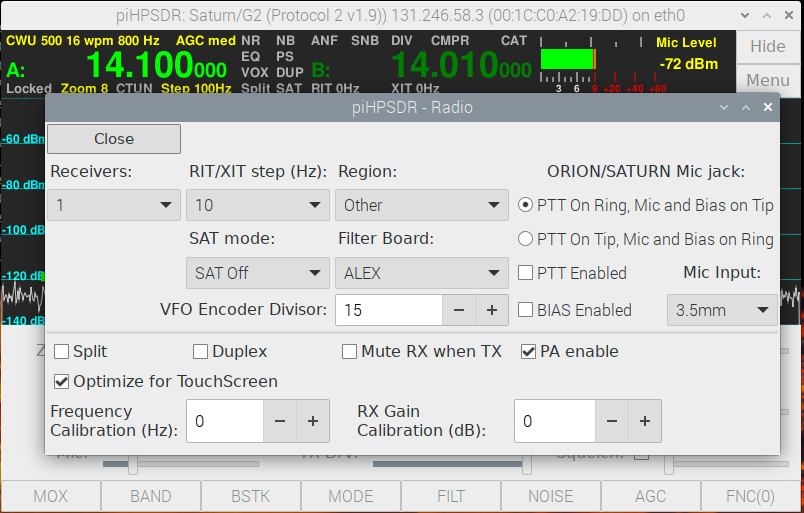
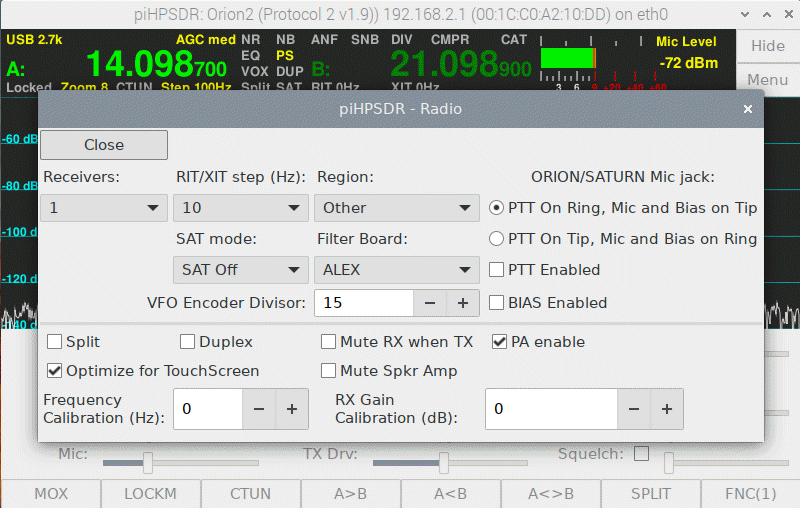
Manual: modified Radio (Mute Spkr Amp) and RX (bypass filter) menus

Changed region(s): [[0.0, 0.0, 1.0, 1.0], [0.0, 0.1181, 0.0312, 0.1476]]

diff --git a/release/LatexManual/piHPSDR-Manual.tex b/release/LatexManual/piHPSDR-Manual.tex
@@ -1059,6 +1059,11 @@ when using a mouse, it is a great helper when using a touch screen. Therefore th
 option is set by default, but you can uncheck it here if you prefer normal
 mouse operation. Note that this option becomes effective when the next menu is opened.
 
+\rett{Mute Spkr Amp} This box only appears on Anan-7000/8000 and G2 radios using protocol 2.
+If checked, the audio amplifier driving the speakers (either the speaker jacks in the
+back panel, or the built-in speakers) is disabled. This does not affect the audio signal
+at the headphone jack.
+
 \rett{Frequency Calibration} Here you can set a frequency offset (in Hz). This offset
 will be added to all frequencies sent to the radio. This means that if you discover that
 a reference signal occurs in your RX panel at 10001 kHz where it should occur at 10000
@@ -1702,13 +1707,31 @@ for some legacy HPSDR boards which had a switch-able RX preamp.
 \rett{Mute when not active}. If checked, the audio from this receiver is muted when
 it is not the active receiver.
 
-\rett{Mute audio}. If checked, the audio from this receiver is muted, no matter whether
+\rett{Mute Audio to Radio}. If checked, the audio from this receiver is muted, no matter whether
 it is active or not.
+
+\rett{Bypass ADC0 RX filters}. This box is only shown if the ALEX filter board
+is selected (see the \bltt{Radio} menu). If checked, the filters in the RF frontend for ADC0
+are by-passed during receive. This option will normally only used for radios that
+have band-pass filters in the front end, if one operates two receivers both running
+on ADC0 data on different bands. Without checking this option, only the signals for
+the band of the active receiver will pass. Older radios (up to ANAN-100/200)  have a
+combination of a low-pass and a high-pass filter in the RX path to ADC0. If these
+radios run two receivers, the low-pass filter is selected based on the higher
+of the two RX frequencies, and the high-pass filters is selected based on the
+lower one. This ensures that the signals for both receivers fall into  the filter
+pass band.
+
+\rett{Bypass ADC1 RX filters}. This box is only shown if the RF frontend for ADC1
+features a filter board (ANAN-7000/8000 and G2 radios),
+and if the ALEX filter board
+is selected (see the \bltt{Radio} menu). If checked, the filters in the RF frontend for ADC1
+are by-passed during receive.
 
 \rett{Local Audio Output:} If checked, the audio from this radio is sent to a local
 sound card (or virtual audio cable). The sound card itself is selected in the
-pop-down menu below this check box. One line below, one can select between
-\texttt{STEREO}, \texttt{LEFT} and \texttt{RIGHT}, and select whether the RX
+pop-down menu below this check box. One line further below, one can select between
+\texttt{Stereo}, \texttt{Left} and \texttt{Right}, and select whether the RX
 audio should be sent to both channels or to the left or right channel only.
 
 In the example shown, checking the Local Audio box would send the RX audio
